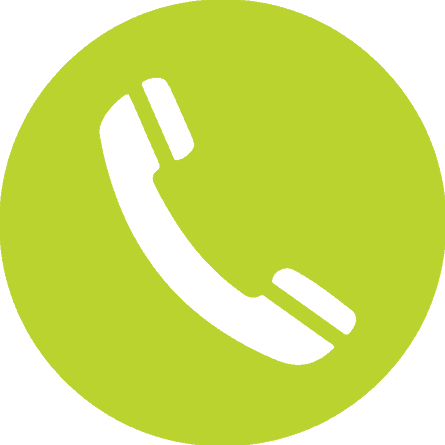
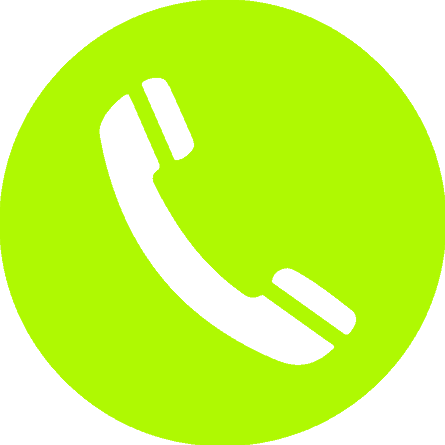
color scheme fix

diff --git a/lib/helpers/my_colors.dart b/lib/helpers/my_colors.dart
@@ -1,8 +1,8 @@
 import 'package:flutter/material.dart';
 
 class MyColors {
-  static Color green = Color(0xffBBD32E);
-  static Color grey = Color(0xff9d9fa2);
+  static Color green = Color(0xffadf700);
+  static Color grey = Color(0xffb3b3b3);
   static Color accent = Colors.lightGreen;
   static Color primary = Colors.grey;
   static Brightness brightness = Brightness.light;
